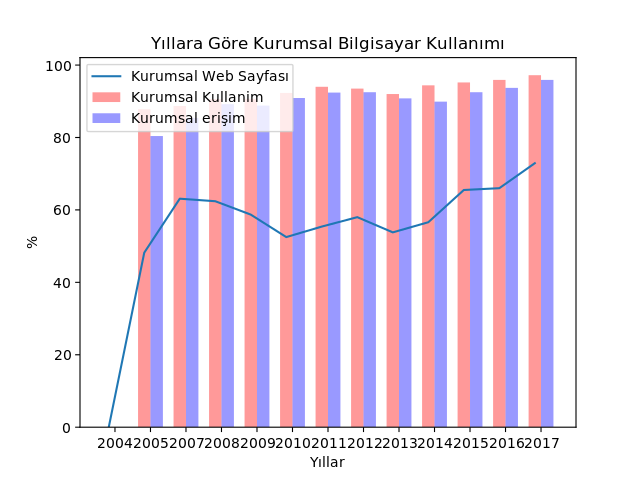
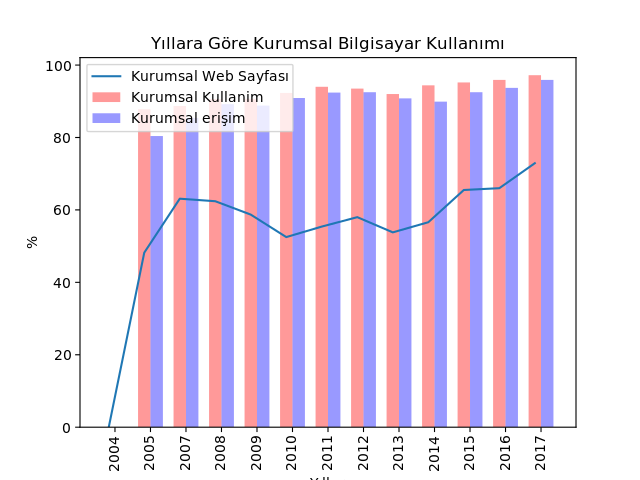
Grafik düzenlendi güncellendi

Changed region(s): [[0.1562, 0.9062, 0.875, 1.0]]

diff --git a/gonca_ozmen/calisma2Grafik.py b/gonca_ozmen/calisma2Grafik.py
@@ -55,7 +55,7 @@ ax1.set_title('Yıllara Göre Kurumsal Bilgisayar Kullanımı')
 ax1.set_xticks(y_pos + eni/ 2)
 ax1.set_xticklabels(objects)
 ax1.legend()
-
+plt.xticks(rotation=90)
 
 # figure.tight_layout()
 plt.show()
